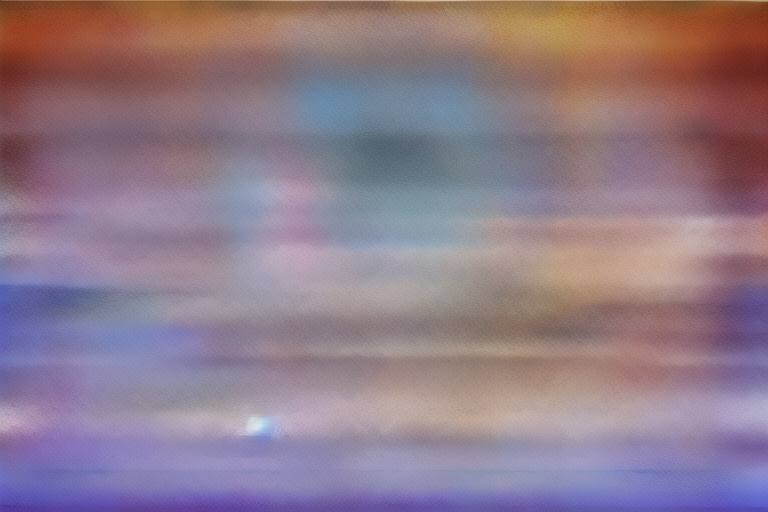
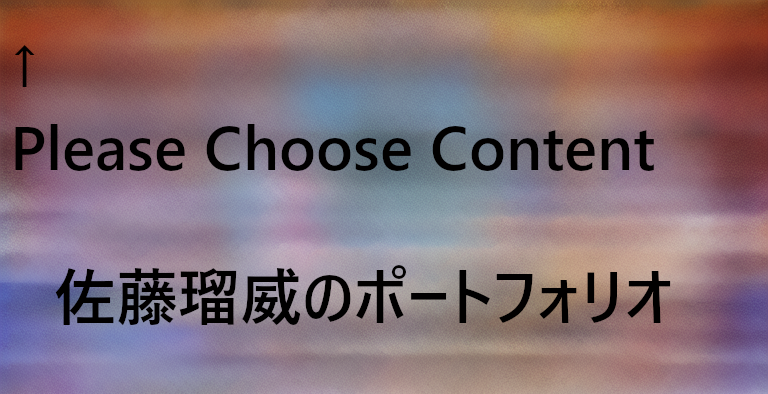
Final commit

diff --git a/docs/static/js/app.0194247222677de89e79.js b/docs/static/js/app.0194247222677de89e79.js
@@ -1,0 +1,2 @@
+webpackJsonp([0],{"7mux":function(t,a){},"7vgw":function(t,a,s){"use strict";var n={render:function(){this.$createElement;this._self._c;return this._m(0)},staticRenderFns:[function(){var t=this.$createElement,a=this._self._c||t;return a("div",[a("div",{staticClass:"container"},[this._v("\n       佐藤瑠威のポートフォリオ\n        ")]),this._v(" "),a("div",{staticClass:"main-image"},[a("p",{staticStyle:{color:"gray"}},[a("img",{staticClass:"my-3",staticStyle:{width:"61%",position:"relative",left:"522px",top:"0px"},attrs:{src:s("rLkH"),alt:""}})])])])}]};a.a=n},"8G6t":function(t,a,s){"use strict";var n={render:function(){this.$createElement;this._self._c;return this._m(0)},staticRenderFns:[function(){var t=this,a=t.$createElement,n=t._self._c||a;return n("div",[n("div",{staticClass:"container mt-5 px-5"},[n("h1",[t._v("INTRODUCTION")]),t._v(" "),n("div",{staticClass:"row"},[n("table",{staticClass:"table col-lg-10 mt-4 mx-auto"},[n("thead",[n("img",{staticClass:"my-3",staticStyle:{width:"200px"},attrs:{src:s("tuVb"),alt:""}}),t._v(" "),n("tr",[n("th",{staticStyle:{"background-color":"rgba(65, 184, 131, 0.5)",color:"white"}},[t._v("\n              KEY\n            ")]),t._v(" "),n("th",{staticStyle:{"background-color":"rgba(65, 184, 131, 0.5)",color:"white"}},[t._v("\n              VALUE\n            ")])])]),t._v(" "),n("tbody",[n("tr",[n("td",[t._v("Name")]),t._v(" "),n("td",[t._v("佐藤瑠威\n            ")])]),t._v(" "),n("tr",[n("td",[t._v("University")]),t._v(" "),n("td",[t._v("HAL大阪")])]),t._v(" "),n("tr",[n("td",[t._v("Age")]),t._v(" "),n("td",[t._v("20")])])])])])])])}]};a.a=n},"9M+g":function(t,a){},FGQs:function(t,a){},GuIe:function(t,a,s){"use strict";var n={render:function(){this.$createElement;this._self._c;return this._m(0)},staticRenderFns:[function(){var t=this.$createElement,a=this._self._c||t;return a("div",[a("div",{staticClass:"container mt-5 px-5"},[a("h1",[this._v("INTERN")]),this._v(" "),a("div",{staticClass:"list col-lg-10 my-4 mx-auto"},[a("h2",{staticClass:"mb-3 pb-3"},[this._v("過去経験")]),this._v("\n      株式会社スパイラルのインターンにてグループで会員\n      パッケージに関するwebページの作成を行いました\n      "),a("hr")])])])}]};a.a=n},Jmt5:function(t,a){},NHnr:function(t,a,s){"use strict";Object.defineProperty(a,"__esModule",{value:!0});var n=s("7+uW"),i={render:function(){var t=this,a=t.$createElement,s=t._self._c||a;return s("nav",{staticClass:"navbar-expand-lg navbar-dark bg-dark"},[s("div",{staticClass:"container"},[s("div",{staticClass:"collapse navbar-collapse",attrs:{id:"navbarSupportedContent"}},[s("ul",{staticClass:"navbar-nav mx-auto"},[s("li",{staticClass:"nav-item"},[s("router-link",{staticClass:"nav-link px-4 py-3",attrs:{to:"/"}},[t._v("Home")])],1),t._v(" "),s("li",{staticClass:"nav-item"},[s("router-link",{staticClass:"nav-link px-4 py-3",attrs:{to:"/introduction"}},[t._v("\n            Introduction\n          ")])],1),t._v(" "),s("li",{staticClass:"nav-item"},[s("router-link",{staticClass:"nav-link px-4 py-3",attrs:{to:"/language"}},[t._v("\n            Used Languages\n          ")])],1),t._v(" "),s("li",{staticClass:"nav-item"},[s("router-link",{staticClass:"nav-link px-4 py-3",attrs:{to:"/intern"}},[t._v("\n            Intern Experience\n          ")])],1),t._v(" "),s("li",{staticClass:"nav-item"},[s("router-link",{staticClass:"nav-link px-4 py-3",attrs:{to:"/portfolio"}},[t._v("\n            Portfolio\n          ")])],1)])]),t._v(" "),s("ul",{staticClass:"sp px-5"},[s("li",[s("router-link",{staticClass:"ancar text-white",attrs:{to:"/"}},[t._v("Home")])],1),t._v(" "),s("li",[s("router-link",{staticClass:"ancar text-white",attrs:{to:"/introduction"}},[t._v("\n          Introduction\n        ")])],1),t._v(" "),s("li",[s("router-link",{staticClass:"ancar text-white",attrs:{to:"/language"}},[t._v("\n          Used Languages & Library & qualification\n        ")])],1),t._v(" "),s("li",[s("router-link",{staticClass:"ancar text-white",attrs:{to:"/intern"}},[t._v("\n          Intern Experience\n        ")])],1),t._v(" "),s("li",[s("router-link",{staticClass:"ancar text-white",attrs:{to:"/portfolio"}},[t._v("\n          Portfolio\n        ")])],1)])])])},staticRenderFns:[]};var e={components:{myheader:s("VU/8")(null,i,!1,function(t){s("yTDK")},null,null).exports}},r={render:function(){var t=this.$createElement,a=this._self._c||t;return a("div",{attrs:{id:"app"}},[a("myheader"),this._v(" "),a("router-view")],1)},staticRenderFns:[]};var l=s("VU/8")(e,r,!1,function(t){s("7mux")},null,null).exports,c=s("/ocq"),o=s("wUZA"),u=s("rGKf"),v=s("yBia"),d=s("QuoE"),_=s("T19t"),f=s("Tqaz");s("Jmt5"),s("9M+g");n.default.use(c.a),n.default.use(f.a);var p=new c.a({routes:[{path:"/",component:o.default},{path:"/introduction",component:u.default},{path:"/language",component:v.default},{path:"/intern",component:d.default},{path:"/portfolio",component:_.default}]});n.default.config.productionTip=!1,new n.default({el:"#app",router:p,components:{App:l},template:"<App/>"})},QuoE:function(t,a,s){"use strict";var n=s("lKZ1"),i=s.n(n),e=s("GuIe");var r=function(t){s("UjK7")},l=s("VU/8")(i.a,e.a,!1,r,null,null);a.default=l.exports},T19t:function(t,a,s){"use strict";var n=s("VE18"),i=s.n(n),e=s("tspE");var r=function(t){s("pt39")},l=s("VU/8")(i.a,e.a,!1,r,null,null);a.default=l.exports},UjK7:function(t,a){},VE18:function(t,a){},Z7Ag:function(t,a){},hJ22:function(t,a){},lKZ1:function(t,a){},la2V:function(t,a){},pt39:function(t,a){},rGKf:function(t,a,s){"use strict";var n=s("hJ22"),i=s.n(n),e=s("8G6t");var r=function(t){s("xIgu")},l=s("VU/8")(i.a,e.a,!1,r,null,null);a.default=l.exports},rLkH:function(t,a,s){t.exports=s.p+"static/img/mottled pattern s-3219379508 (1).7f2a9e3.png"},rXdB:function(t,a){},rdEY:function(t,a,s){"use strict";var n={render:function(){this.$createElement;this._self._c;return this._m(0)},staticRenderFns:[function(){var t=this,a=t.$createElement,s=t._self._c||a;return s("div",[s("div",{staticClass:"container mt-5 px-5"},[s("h1",[t._v("LANGUAGES & Library & qualification")]),t._v(" "),s("div",{staticClass:"row mt-4"},[s("div",{staticClass:"col-lg-1 float-left p-0 my-4 sp-block"}),t._v(" "),s("div",{staticClass:"card col-lg-5 float-left p-0 my-4"},[s("div",{staticClass:"Clanguage"}),t._v(" "),s("div",{staticClass:"card-body"},[s("h4",{staticClass:"card-title"},[t._v("C言語,C++")]),t._v(" "),s("p",{staticStyle:{color:"gray"}},[t._v("経験年数:C言語、3年"),s("br"),t._v("C++,2年")]),t._v(" "),s("p",{staticClass:"card-text text-left"},[t._v("\n           就職作品制作にて使用\n          ")])])]),t._v(" "),s("div",{staticClass:"card col-lg-5 float-left p-0 my-4"},[s("div",{staticClass:"directX"}),t._v(" "),s("div",{staticClass:"card-body"},[s("h4",{staticClass:"card-title"},[t._v("DirectX")]),t._v(" "),s("p",{staticStyle:{color:"gray"}},[t._v("経験年数: 2年")]),t._v(" "),s("p",{staticClass:"card-text text-left"},[t._v("\n            就職作品制作にて使用\n          ")])])]),t._v(" "),s("div",{staticClass:"col-lg-1 float-left p-0 my-4 sp-block"}),t._v(" "),s("div",{staticClass:"col-lg-1 float-left p-0 my-4 sp-block"}),t._v(" "),s("div",{staticClass:"card col-lg-5 float-left p-0 my-4"},[s("div",{staticClass:"ruby"}),t._v(" "),s("div",{staticClass:"card-body"},[s("h4",{staticClass:"card-title"},[t._v("基本情報技術者試験合格")])])])])])])}]};a.a=n},tspE:function(t,a,s){"use strict";var n={render:function(){this.$createElement;this._self._c;return this._m(0)},staticRenderFns:[function(){var t=this.$createElement,a=this._self._c||t;return a("div",[a("div",{staticClass:"container mt-5 px-5"},[a("h1",[this._v("PORTFOLIO")]),this._v(" "),a("div",{staticClass:"list col-lg-10 mt-4 mx-auto"},[a("h2",{staticClass:"mb-3 pb-3"},[this._v("過去作品")]),this._v(" "),a("h3",[this._v("ここに就職作品や過去の作品を貼る")])])])])}]};a.a=n},tuVb:function(t,a,s){t.exports=s.p+"static/img/daiyo.28b1125.png"},wUZA:function(t,a,s){"use strict";var n=s("FGQs"),i=s.n(n),e=s("7vgw");var r=function(t){s("Z7Ag")},l=s("VU/8")(i.a,e.a,!1,r,null,null);a.default=l.exports},xIgu:function(t,a){},yBia:function(t,a,s){"use strict";var n=s("rXdB"),i=s.n(n),e=s("rdEY");var r=function(t){s("la2V")},l=s("VU/8")(i.a,e.a,!1,r,null,null);a.default=l.exports},yTDK:function(t,a){}},["NHnr"]);
+//# sourceMappingURL=app.0194247222677de89e79.js.map

diff --git a/docs/static/js/app.a0c6d205114be5f52ad4.js b/docs/static/js/app.a0c6d205114be5f52ad4.js
@@ -1,0 +1,2 @@
+webpackJsonp([0],{"7mux":function(t,a){},"8G6t":function(t,a,s){"use strict";var n={render:function(){this.$createElement;this._self._c;return this._m(0)},staticRenderFns:[function(){var t=this,a=t.$createElement,n=t._self._c||a;return n("div",[n("div",{staticClass:"container mt-5 px-5"},[n("h1",[t._v("INTRODUCTION")]),t._v(" "),n("div",{staticClass:"row"},[n("table",{staticClass:"table col-lg-10 mt-4 mx-auto"},[n("thead",[n("img",{staticClass:"my-3",staticStyle:{width:"200px"},attrs:{src:s("tuVb"),alt:""}}),t._v(" "),n("tr",[n("th",{staticStyle:{"background-color":"rgba(65, 184, 131, 0.5)",color:"white"}},[t._v("\n              KEY\n            ")]),t._v(" "),n("th",{staticStyle:{"background-color":"rgba(65, 184, 131, 0.5)",color:"white"}},[t._v("\n              VALUE\n            ")])])]),t._v(" "),n("tbody",[n("tr",[n("td",[t._v("Name")]),t._v(" "),n("td",[t._v("佐藤瑠威\n            ")])]),t._v(" "),n("tr",[n("td",[t._v("University")]),t._v(" "),n("td",[t._v("HAL大阪")])]),t._v(" "),n("tr",[n("td",[t._v("Age")]),t._v(" "),n("td",[t._v("20")])])])])])])])}]};a.a=n},"9M+g":function(t,a){},FGQs:function(t,a){},GuIe:function(t,a,s){"use strict";var n={render:function(){this.$createElement;this._self._c;return this._m(0)},staticRenderFns:[function(){var t=this.$createElement,a=this._self._c||t;return a("div",[a("div",{staticClass:"container mt-5 px-5"},[a("h1",[this._v("INTERN")]),this._v(" "),a("div",{staticClass:"list col-lg-10 my-4 mx-auto"},[a("h2",{staticClass:"mb-3 pb-3"},[this._v("過去経験")]),this._v("\n      株式会社スパイラルのインターンにてグループで会員\n      パッケージに関するwebページの作成を行いました\n      "),a("hr")])])])}]};a.a=n},Jmt5:function(t,a){},NHnr:function(t,a,s){"use strict";Object.defineProperty(a,"__esModule",{value:!0});var n=s("7+uW"),i={render:function(){var t=this,a=t.$createElement,s=t._self._c||a;return s("nav",{staticClass:"navbar-expand-lg navbar-dark bg-dark"},[s("div",{staticClass:"container"},[s("div",{staticClass:"collapse navbar-collapse",attrs:{id:"navbarSupportedContent"}},[s("ul",{staticClass:"navbar-nav mx-auto"},[s("li",{staticClass:"nav-item"},[s("router-link",{staticClass:"nav-link px-4 py-3",attrs:{to:"/"}},[t._v("Home")])],1),t._v(" "),s("li",{staticClass:"nav-item"},[s("router-link",{staticClass:"nav-link px-4 py-3",attrs:{to:"/introduction"}},[t._v("\n            Introduction\n          ")])],1),t._v(" "),s("li",{staticClass:"nav-item"},[s("router-link",{staticClass:"nav-link px-4 py-3",attrs:{to:"/language"}},[t._v("\n            Used Languages\n          ")])],1),t._v(" "),s("li",{staticClass:"nav-item"},[s("router-link",{staticClass:"nav-link px-4 py-3",attrs:{to:"/intern"}},[t._v("\n            Intern Experience\n          ")])],1),t._v(" "),s("li",{staticClass:"nav-item"},[s("router-link",{staticClass:"nav-link px-4 py-3",attrs:{to:"/portfolio"}},[t._v("\n            Portfolio\n          ")])],1)])]),t._v(" "),s("ul",{staticClass:"sp px-5"},[s("li",[s("router-link",{staticClass:"ancar text-white",attrs:{to:"/"}},[t._v("Home")])],1),t._v(" "),s("li",[s("router-link",{staticClass:"ancar text-white",attrs:{to:"/introduction"}},[t._v("\n          Introduction\n        ")])],1),t._v(" "),s("li",[s("router-link",{staticClass:"ancar text-white",attrs:{to:"/language"}},[t._v("\n          Used Languages & Library & qualification\n        ")])],1),t._v(" "),s("li",[s("router-link",{staticClass:"ancar text-white",attrs:{to:"/intern"}},[t._v("\n          Intern Experience\n        ")])],1),t._v(" "),s("li",[s("router-link",{staticClass:"ancar text-white",attrs:{to:"/portfolio"}},[t._v("\n          Portfolio\n        ")])],1)])])])},staticRenderFns:[]};var e={components:{myheader:s("VU/8")(null,i,!1,function(t){s("yTDK")},null,null).exports}},r={render:function(){var t=this.$createElement,a=this._self._c||t;return a("div",{attrs:{id:"app"}},[a("myheader"),this._v(" "),a("router-view")],1)},staticRenderFns:[]};var l=s("VU/8")(e,r,!1,function(t){s("7mux")},null,null).exports,c=s("/ocq"),o=s("wUZA"),u=s("rGKf"),v=s("yBia"),d=s("QuoE"),_=s("T19t"),f=s("Tqaz");s("Jmt5"),s("9M+g");n.default.use(c.a),n.default.use(f.a);var p=new c.a({routes:[{path:"/",component:o.default},{path:"/introduction",component:u.default},{path:"/language",component:v.default},{path:"/intern",component:d.default},{path:"/portfolio",component:_.default}]});n.default.config.productionTip=!1,new n.default({el:"#app",router:p,components:{App:l},template:"<App/>"})},QuoE:function(t,a,s){"use strict";var n=s("lKZ1"),i=s.n(n),e=s("GuIe");var r=function(t){s("UjK7")},l=s("VU/8")(i.a,e.a,!1,r,null,null);a.default=l.exports},T19t:function(t,a,s){"use strict";var n=s("VE18"),i=s.n(n),e=s("tspE");var r=function(t){s("pt39")},l=s("VU/8")(i.a,e.a,!1,r,null,null);a.default=l.exports},UjK7:function(t,a){},VE18:function(t,a){},Zsaz:function(t,a){},hJ22:function(t,a){},lKZ1:function(t,a){},la2V:function(t,a){},n9rl:function(t,a,s){"use strict";var n={render:function(){this.$createElement;this._self._c;return this._m(0)},staticRenderFns:[function(){var t=this.$createElement,a=this._self._c||t;return a("div",[a("div",{staticClass:"container"},[this._v("\n       佐藤瑠威のポートフォリオ\n        ")]),this._v(" "),a("div",{staticClass:"main-image"},[a("p",{staticStyle:{color:"gray"}},[a("img",{staticClass:"my-3",staticStyle:{width:"79%",position:"relative",left:"108px",top:"-40px"},attrs:{src:s("rLkH"),alt:""}})])])])}]};a.a=n},pt39:function(t,a){},rGKf:function(t,a,s){"use strict";var n=s("hJ22"),i=s.n(n),e=s("8G6t");var r=function(t){s("xIgu")},l=s("VU/8")(i.a,e.a,!1,r,null,null);a.default=l.exports},rLkH:function(t,a,s){t.exports=s.p+"static/img/mottled pattern s-3219379508 (1).0c345a7.png"},rXdB:function(t,a){},rdEY:function(t,a,s){"use strict";var n={render:function(){this.$createElement;this._self._c;return this._m(0)},staticRenderFns:[function(){var t=this,a=t.$createElement,s=t._self._c||a;return s("div",[s("div",{staticClass:"container mt-5 px-5"},[s("h1",[t._v("LANGUAGES & Library & qualification")]),t._v(" "),s("div",{staticClass:"row mt-4"},[s("div",{staticClass:"col-lg-1 float-left p-0 my-4 sp-block"}),t._v(" "),s("div",{staticClass:"card col-lg-5 float-left p-0 my-4"},[s("div",{staticClass:"Clanguage"}),t._v(" "),s("div",{staticClass:"card-body"},[s("h4",{staticClass:"card-title"},[t._v("C言語,C++")]),t._v(" "),s("p",{staticStyle:{color:"gray"}},[t._v("経験年数:C言語、3年"),s("br"),t._v("C++,2年")]),t._v(" "),s("p",{staticClass:"card-text text-left"},[t._v("\n           就職作品制作にて使用\n          ")])])]),t._v(" "),s("div",{staticClass:"card col-lg-5 float-left p-0 my-4"},[s("div",{staticClass:"directX"}),t._v(" "),s("div",{staticClass:"card-body"},[s("h4",{staticClass:"card-title"},[t._v("DirectX")]),t._v(" "),s("p",{staticStyle:{color:"gray"}},[t._v("経験年数: 2年")]),t._v(" "),s("p",{staticClass:"card-text text-left"},[t._v("\n            就職作品制作にて使用\n          ")])])]),t._v(" "),s("div",{staticClass:"col-lg-1 float-left p-0 my-4 sp-block"}),t._v(" "),s("div",{staticClass:"col-lg-1 float-left p-0 my-4 sp-block"}),t._v(" "),s("div",{staticClass:"card col-lg-5 float-left p-0 my-4"},[s("div",{staticClass:"ruby"}),t._v(" "),s("div",{staticClass:"card-body"},[s("h4",{staticClass:"card-title"},[t._v("基本情報技術者試験合格")])])])])])])}]};a.a=n},tspE:function(t,a,s){"use strict";var n={render:function(){this.$createElement;this._self._c;return this._m(0)},staticRenderFns:[function(){var t=this.$createElement,a=this._self._c||t;return a("div",[a("div",{staticClass:"container mt-5 px-5"},[a("h1",[this._v("PORTFOLIO")]),this._v(" "),a("div",{staticClass:"list col-lg-10 mt-4 mx-auto"},[a("h2",{staticClass:"mb-3 pb-3"},[this._v("過去作品")]),this._v(" "),a("h3",[this._v("ここに就職作品や過去の作品を貼る")])])])])}]};a.a=n},tuVb:function(t,a,s){t.exports=s.p+"static/img/daiyo.28b1125.png"},wUZA:function(t,a,s){"use strict";var n=s("FGQs"),i=s.n(n),e=s("n9rl");var r=function(t){s("Zsaz")},l=s("VU/8")(i.a,e.a,!1,r,null,null);a.default=l.exports},xIgu:function(t,a){},yBia:function(t,a,s){"use strict";var n=s("rXdB"),i=s.n(n),e=s("rdEY");var r=function(t){s("la2V")},l=s("VU/8")(i.a,e.a,!1,r,null,null);a.default=l.exports},yTDK:function(t,a){}},["NHnr"]);
+//# sourceMappingURL=app.a0c6d205114be5f52ad4.js.map

diff --git a/docs/index.html b/docs/index.html
@@ -1,1 +1,1 @@
-<!DOCTYPE html><html><head><meta charset=utf-8><meta name=viewport content="width=device-width,initial-scale=1"><title>portfolio</title><link href=./static/css/app.09c52bb41dec99fbd0840303cfe8ea37.css rel=stylesheet></head><body><div id=app></div><script type=text/javascript src=./static/js/manifest.3ad1d5771e9b13dbdad2.js></script><script type=text/javascript src=./static/js/vendor.b054f74e7a034202892d.js></script><script type=text/javascript src=./static/js/app.fd8086dc836781bcc922.js></script></body></html>
+<!DOCTYPE html><html><head><meta charset=utf-8><meta name=viewport content="width=device-width,initial-scale=1"><title>portfolio</title><link href=./static/css/app.09c52bb41dec99fbd0840303cfe8ea37.css rel=stylesheet></head><body><div id=app></div><script type=text/javascript src=./static/js/manifest.3ad1d5771e9b13dbdad2.js></script><script type=text/javascript src=./static/js/vendor.b054f74e7a034202892d.js></script><script type=text/javascript src=./static/js/app.a0c6d205114be5f52ad4.js></script></body></html>
